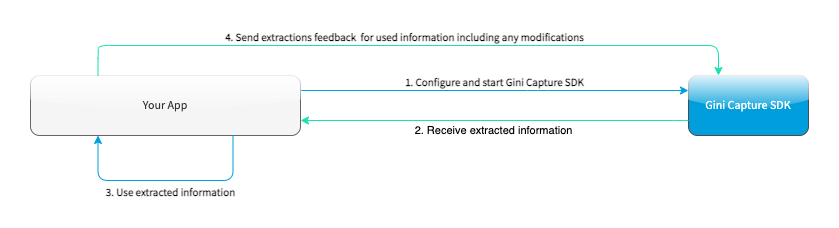
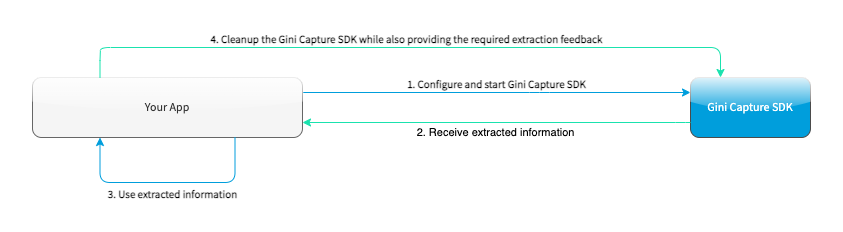
docs(capture-sdk): Update integration guide related to feedback and networking
PIA-3652

diff --git a/capture-sdk/sdk/src/doc/source/integration.rst b/capture-sdk/sdk/src/doc/source/integration.rst
@@ -54,16 +54,21 @@ Configuration
 Configuration and interaction is done using the ``GiniCapture`` singleton.
 
 To configure and create a new instance use the ``GiniCapture.Builder`` returned by ``GiniCapture.newInstance()``. The
-builder creates a new ``GiniCapture`` singleton which you will need to destroy later with ``GiniCapture.getInstance().cleanup()``.
+builder creates a new ``GiniCapture`` singleton which you will need to destroy later with ``GiniCapture.cleanup()``.
 This will also free up any used resources.
 
-You should call ``cleanup()`` after the SDK returned control to your application and your app has sent feedback to the
-Gini Bank API and is not using the SDK anymore.
+You must call ``GiniCapture.cleanup()`` after the user has seen (and potentially corrected) the extractions. You
+need to pass the updated extraction values to ``cleanup()``. If the SDK didn't return any extractions you can
+pass in empty strings.
+
+Failing to call ``GiniCapture.cleanup()`` will throw an ``IllegalStateException`` when
+``GiniCapture.newInstance()`` is called again.
 
 To view all the configuration options see the documentation of :root_dokka_path:`GiniCapture.Builder
 <sdk/net.gini.android.capture/-gini-capture/-builder/index.html?query=public%20class%20Builder>`.
 
-Information about the configurable features are available on the `Features <features.html>`_ page.
+Information about the configurable features are available on the `Features <features.html>`_ page and UI customization
+options can be viewed in the `Customization Guide <customization-guide.html>`_.
 
 Tablet Support
 ---------------
@@ -95,18 +100,9 @@ networking implementation of your own choosing.
     You should have received Gini Bank API client credentials from us. Please get in touch with us in case you don’t have
     them. Without credentials you won't be able to use the Gini Bank API.
 
-We provide two interfaces which need to be implemented to enable the SDK to analyze documents and retrieve extractions:
-
-* ``GiniCaptureNetworkService``
-   This interface is used to upload, analyze and delete documents. See the 
-   :root_dokka_path:`reference documentation <sdk/net.gini.android.capture.network/-gini-capture-network-service/index.html>`
-   for details.
-
-* ``GiniCaptureNetworkApi``
-   This interface is used to declare network tasks which should be called by you outside of the Gini Capture SDK (e.g.,
-   for sending feedback after the user saw and potentielly corrected the extractions).  See the
-   :root_dokka_path:`reference documentation
-   <sdk/net.gini.android.capture.network/-gini-capture-network-api/index.html>` for details.
+We provide the ``GiniCaptureNetworkService`` interface which is used to upload, analyze and delete documents. See the
+:root_dokka_path:`reference documentation <sdk/net.gini.android.capture.network/-gini-capture-network-service/index.html>`
+for details.
 
 Default Implementation
 ~~~~~~~~~~~~~~~~~~~~~~
@@ -123,8 +119,8 @@ To use it add the ``gini-capture-network-lib`` dependency to your app's ``build.
         implementation 'net.gini.android:gini-capture-sdk-default-network:3.0.0-beta04'
     }
 
-For the Gini Capture SDK to be aware of the default implementations create the instances and pass
-them to the builder of ``GiniCapture``:
+For the Gini Capture SDK to be aware of the default implementation create an instance and pass
+it to the builder of ``GiniCapture``:
 
 .. code-block:: java
 
@@ -133,19 +129,12 @@ them to the builder of ``GiniCapture``:
             .setClientCredentials(myClientId, myClientSecret, myEmailDomain)
             .build();
 
-    GiniCaptureDefaultNetworkApi networkApi = 
-        GiniCaptureDefaultNetworkApi.builder()
-            .withGiniCaptureDefaultNetworkService(networkService)
-            .build();
-
     GiniCapture.newInstance()
         .setGiniCaptureNetworkService(networkService)
-        .setGiniCaptureNetworkApi(networkApi)
         .build();
 
-Both default implementations follow the builder pattern. See the documentation of
+The default implementation follows the builder pattern. See the documentation of
 :root_dokka_path_default_network_library:`GiniCaptureDefaultNetworkService.Builder <default-network/net.gini.android.capture.network/-gini-capture-default-network-service/-builder/index.html>`
-and :root_dokka_path_default_network_library:`GiniCaptureDefaultNetworkApi.Builder <default-network/net.gini.android.capture.network/-gini-capture-default-network-api/-builder/index.html>`
 for configuration options.
 
 Retrieve the Analyzed Document
@@ -160,95 +149,16 @@ extractions came from an EPS QR Code.
 
 .. note::
 
-    Make sure to call it before calling ``GiniCaptureDefaultNetworkService.cleanup()`` or ``GiniCapture.cleanup()``.
-    Otherwise the analyzed document won't be available anymore.
-
+    Make sure to call it before calling ``GiniCapture.cleanup()``. Otherwise the analyzed document won't be available anymore.
 
 Custom Implementation
 ~~~~~~~~~~~~~~~~~~~~~
 
-You can also provide your own networking by implementing the ``GiniCaptureNetworkService`` and the
-``GiniCaptureNetworkApi`` interfaces. Pass your instances to the builder of ``GiniCapture`` as shown
-above.
+You can also provide your own networking by implementing the ``GiniCaptureNetworkService`` interface. Pass your
+instances to the builder of ``GiniCapture`` as shown above.
 
-You may also use the `Gini Bank API Library <https://github.com/gini/gini-mobile-android/bank-api-library>`_ for Android or implement
-communication with the Gini Bank API yourself.
-
-Sending Feedback
-~~~~~~~~~~~~~~~~
-
-Your app should send feedback for the extractions the Gini Bank API delivered. Feedback should be sent *only* for the
-extractions the user has seen and accepted (or corrected).
-
-For additional information about feedback see the `Gini Bank API documentation
-<https://pay-api.gini.net/documentation/#send-feedback-and-get-even-better-extractions-next-time>`_.
-
-Default Implementation
-^^^^^^^^^^^^^^^^^^^^^^
-
-The example below shows how to correct extractions and send feedback using the default networking implementation:
-
-.. note::
-
-    We also provide a sample test case `here
-    <https://github.com/gini/gini-mobile-android/blob/main/capture-sdk/default-network/src/androidTest/java/net/gini/android/capture/network/ExtractionFeedbackIntegrationTest.kt>`_
-    to verify that extraction feedback sending works. You may use it along with the example pdf and json files as a
-    starting point to write your own test case.
-
-    The sample test case is based on the Bank API documentation's `recommended steps
-    <https://pay-api.gini.net/documentation/#test-example>`_ for testing extraction feedback sending.
-
-.. code-block:: java
-
-   GiniCaptureDefaultNetworkApi networkApi; // Provided
-
-   Map<String, GiniCaptureSpecificExtraction> extractions; // Provided
-
-   // Modify the amount to pay extraction's value.
-   GiniCaptureSpecificExtraction amountToPay = extractions.get("amountToPay");
-   amountToPay.setValue("31:00");
-
-   // You should send feedback only for extractions the user has seen and accepted.
-   // In this example only the amountToPay was wrong and we can reuse the other extractions.
-   Map<String, GiniCaptureSpecificExtraction> feedback = new HashMap<String, GiniCaptureSpecificExtraction>();
-   feedback.put("iban", extractions.get("iban"));
-   feedback.put("amountToPay", amountToPay);
-   feedback.put("bic", extractions.get("bic"));
-   feedback.put("senderName", extractions.get("senderName"));
-
-   networkApi.sendFeedback(feedback, new GiniCaptureNetworkCallback<Void, Error>() {
-            @Override
-            public void failure(Error error) {
-                // Handle the error.
-            }
-
-            @Override
-            public void success(Void result) {
-                // Feedback sent successfully.
-            }
-
-            @Override
-            public void cancelled() {
-                // Handle cancellation.
-            }
-        });
-
-Custom Implementation
-^^^^^^^^^^^^^^^^^^^^^
-
-If you use your own networking implementation and directly communicate with the Gini Bank API then see `this section
-<https://pay-api.gini.net/documentation/#submitting-feedback-on-extractions>`_ in its documentation on how to send
-feedback.
-
-In case you use the Gini Bank API Library then see `this section
-<https://developer.gini.net/gini-mobile-android/bank-api-library/library/html/guides/common-tasks.html#sending-feedback>`_ in its documentation
-for details.
-
-.. note::
-
-    The Bank API documentation provides `recommended steps <https://pay-api.gini.net/documentation/#test-example>`_ for
-    testing extraction feedback sending. You may use it along with the example pdf and json files as a starting point to
-    write a test case for verifying that feedback sending works. 
+You may also use the `Gini Bank API Library <https://github.com/gini/gini-mobile-android/tree/main/bank-api-library>`_ for Android
+or implement communication with the `Gini Bank API <https://pay-api.gini.net/documentation/>`_ yourself.
 
 Capturing documents
 -------------------
@@ -258,7 +168,9 @@ To launch the Gini Capture SDK you only need to:
 #. Request camera access,
 #. Configure a new instance of ``GiniCapture``,
 #. Launch the ``CameraActivity``,
-#. Handle the result.
+#. Handle the extraction results,
+#. Cleanup the SDK by calling ``GiniCapture.cleanup()`` while also providing the required extraction feedback to improve
+   the future extraction accuracy.
 
 The following diagram shows the interaction between your app and the SDK:
 
@@ -274,21 +186,21 @@ The following diagram shows the interaction between your app and the SDK:
 
 The ``CameraActivity`` can return with the following result codes:
 
-* Activity.RESULT_OK
+* ``Activity.RESULT_OK``
 
    Document was analyzed and the extractions are available in the ``EXTRA_OUT_EXTRACTIONS`` result extra. It contains a
    ``Bundle`` with the extraction labels as keys and ``GiniCaptureSpecificExtraction`` parcelables as values.
 
-* Activity.RESULT_CANCELED
+* ``Activity.RESULT_CANCELED``
    
    User has canceled the Gini Capture SDK.
 
-* CameraActivity.RESULT_ERROR
+* ``CameraActivity.RESULT_ERROR``
 
    An error occured and the details are available in the ``EXTRA_OUT_ERROR`` result extra. It contains a parcelable extra
    of type ``GiniCaptureError`` detailing what went wrong.
 
-* CameraActivity.RESULT_ENTER_MANUALLY
+* ``CameraActivity.RESULT_ENTER_MANUALLY``
 
    The document analysis finished with no results or an error and the user clicked the "Enter manually" button.
 
@@ -308,15 +220,10 @@ The following example shows how to launch the Gini Capture SDK and how to handle
         
         // Instantiate the networking implementations.
         GiniCaptureNetworkService networkService = ...
-        GiniCaptureNetworkApi networkApi = ...
-
-        // Cleanup GiniCapture to make sure everything is reset.
-        GiniCapture.cleanup((Context) this);
         
         // Configure GiniCapture and create a new singleton instance.
         GiniCapture.newInstance()
                 .setGiniCaptureNetworkService(networkService)
-                .setGiniCaptureNetworkApi(networkApi)
                 ...
                 .build();
                 
@@ -333,6 +240,8 @@ The following example shows how to launch the Gini Capture SDK and how to handle
         if (requestCode == GINI_CAPTURE_REQUEST) {
             switch (resultCode) {
                 case Activity.RESULT_CANCELED:
+                    GiniCapture.cleanup(this, "", "",
+                                "", "","", Amount.EMPTY);
                     break;
 
                 case Activity.RESULT_OK:
@@ -357,8 +266,29 @@ The following example shows how to launch the Gini Capture SDK and how to handle
                     if (error != null) {
                         handleError(error);
                     }
+                    GiniCapture.cleanup(this, "", "",
+                            "", "","", Amount.EMPTY);
+                    break;
 
+                case CameraActivity.RESULT_ENTER_MANUALLY:
+                    handleEnterManually();
+                    GiniCapture.cleanup(this, "", "",
+                            "", "","", Amount.EMPTY);
                     break;
             }
         }
+    }
+
+    void stopGiniCaptureSDK() {
+        // After the user has seen and potentially corrected the extractions
+        // cleanup the SDK while passing in the final extraction values 
+        // which will be used as feedback to improve the future extraction accuracy:
+        GiniCapture.cleanup((Context) this,
+                paymentRecipient,
+                paymentReference,
+                paymentPurpose,
+                iban,
+                bic,
+                amount
+            )
     }
